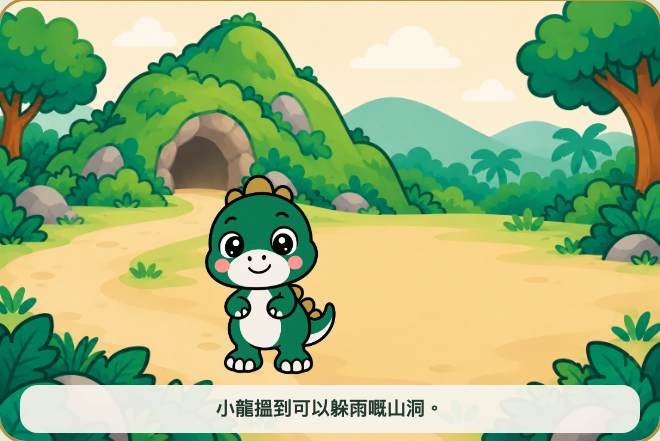
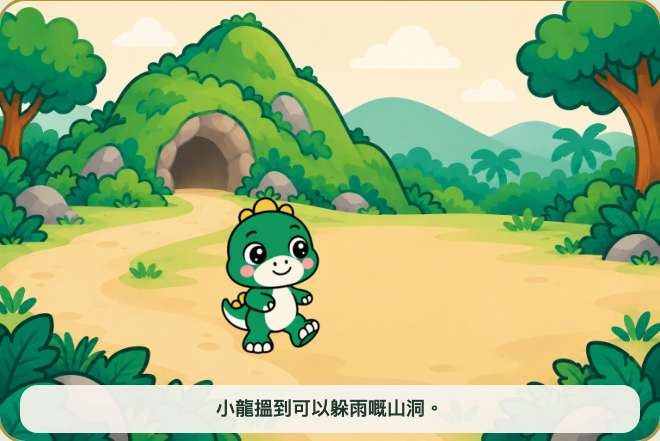
Show walking and drinking baby poses in Chinese care outcomes

Changed region(s): [[0.303, 0.3832, 0.5152, 0.8549]]

diff --git a/sw.js b/sw.js
@@ -1,7 +1,7 @@
 // Generated precache manifest. Rebuild whenever local assets change.
-const CACHE='dino-island-a01c91c67758';
+const CACHE='dino-island-c9b8a70fcbc7';
 const BASE=new URL('./',self.location.href);
-const ASSETS=["board/board.css","board/board.js","board/img/board-skin.png","board/index.html","hub/app.js","hub/audio/en/actions/freeze.wav","hub/audio/en/actions/hands.wav","hub/audio/en/actions/jump.wav","hub/audio/en/actions/left.wav","hub/audio/en/actions/right.wav","hub/audio/en/actions/sit.wav","hub/audio/en/actions/stand.wav","hub/audio/yue/actions/freeze.wav","hub/audio/yue/actions/hands.wav","hub/audio/yue/actions/left.wav","hub/audio/yue/actions/right.wav","hub/audio/yue/actions/sit.wav","hub/audio/yue/characters/fire.wav","hub/audio/yue/characters/moon.wav","hub/audio/yue/characters/mountain.wav","hub/audio/yue/characters/sun.wav","hub/audio/yue/characters/water.wav","hub/audio/yue/characters/wood.wav","hub/audio/yue/common/complete.wav","hub/audio/yue/common/hint.wav","hub/audio/yue/common/retry.wav","hub/audio/yue/common/welcome.wav","hub/audio/yue/intro/art.wav","hub/audio/yue/intro/chinese.wav","hub/audio/yue/intro/computing.wav","hub/audio/yue/intro/english.wav","hub/audio/yue/intro/general.wav","hub/audio/yue/intro/humanities.wav","hub/audio/yue/intro/mandarin.wav","hub/audio/yue/intro/math.wav","hub/audio/yue/intro/music.wav","hub/audio/yue/intro/pe.wav","hub/audio/yue/intro/science.wav","hub/audio/zh-CN/greetings/goodbye.wav","hub/audio/zh-CN/greetings/hello.wav","hub/audio/zh-CN/greetings/morning.wav","hub/audio/zh-CN/greetings/please.wav","hub/audio/zh-CN/greetings/thanks.wav","hub/audio/zh-CN/greetings/welcome.wav","hub/certificate.js","hub/games.js","hub/img/chars/dino-baby-eat.png","hub/img/chars/dino-baby-sleep.png","hub/img/chars/dino-baby.png","hub/img/chars/landmark-hatch.png","hub/img/chars/landmark-longneck.png","hub/img/chars/landmark-triceratops.png","hub/img/chars/xiaolian-clap.png","hub/img/chars/xiaolian-color.png","hub/img/chars/xiaolian-highfive.png","hub/img/chars/xiaolian-point.png","hub/img/chars/xiaolian-welcome.png","hub/img/chars/xiaolian-write.png","hub/img/chars/xiaozhi-highfive.png","hub/img/chars/xiaozhi-jump.png","hub/img/chars/xiaozhi-run.png","hub/img/chars/xiaozhi-sit.png","hub/img/chars/xiaozhi-step.png","hub/img/chars/xiaozhi-stretch.png","hub/img/chars/xiaozhi-tablet.png","hub/img/chars/xiaozhi-welcome.png","hub/img/games/art/egg-studio.png","hub/img/games/chinese/mountain.png","hub/img/games/chinese/river.png","hub/img/games/chinese/volcano.png","hub/img/games/computing/coding-garden.png","hub/img/games/computing/dino-robot.png","hub/img/games/english/dino-jump.png","hub/img/games/general/bedtime.png","hub/img/games/general/daytime.png","hub/img/games/general/dino-waking.png","hub/img/games/general/morning.png","hub/img/games/humanities/river-centre.png","hub/img/games/humanities/safe-forest.png","hub/img/games/humanities/volcano-edge.png","hub/img/games/mandarin/village.png","hub/img/games/math/feeding-garden.png","hub/img/games/math/friend-longneck.png","hub/img/games/math/friend-triceratops.png","hub/img/games/music/dino-drum.png","hub/img/games/music/music-stage.png","hub/img/games/pe/forest-arena.png","hub/img/games/pe/forest-visitor.png","hub/img/games/science/excavation.png","hub/img/map/island-path.png","hub/img/ui/cert-frame.png","hub/index.html","hub/modules/art.js","hub/modules/chinese-scenes.js","hub/modules/computing.js","hub/modules/fossil-art.js","hub/modules/general.js","hub/modules/humanities.js","hub/modules/mandarin.js","hub/modules/math.js","hub/modules/motion.js","hub/modules/music.js","hub/modules/pe-scene.js","hub/modules/science.js","hub/park-guides.js","index.html","setup/index.html","shared/certificate-link.js","shared/config.js","shared/core.js","shared/game-clock-gate.js","shared/game-state.js","shared/icons.js","shared/img/school-logo.png","shared/models/pose-landmarker-lite-v1.task","shared/network.js","shared/offline.js","shared/pose-actions.js","shared/pose-camera.js","shared/qrcode.js","shared/recorder.js","shared/sequence.js","shared/storage.js","shared/style.css","shared/vendor/mediapipe/vision-bundle.js","shared/vendor/mediapipe/wasm/vision_wasm_internal.js","shared/vendor/mediapipe/wasm/vision_wasm_internal.wasm","shared/vendor/mediapipe/wasm/vision_wasm_nosimd_internal.js","shared/vendor/mediapipe/wasm/vision_wasm_nosimd_internal.wasm","shared/voice.js","hub/","board/","setup/"].map(p=>new URL(p,BASE).href);
+const ASSETS=["board/board.css","board/board.js","board/img/board-skin.png","board/index.html","hub/app.js","hub/audio/en/actions/freeze.wav","hub/audio/en/actions/hands.wav","hub/audio/en/actions/jump.wav","hub/audio/en/actions/left.wav","hub/audio/en/actions/right.wav","hub/audio/en/actions/sit.wav","hub/audio/en/actions/stand.wav","hub/audio/yue/actions/freeze.wav","hub/audio/yue/actions/hands.wav","hub/audio/yue/actions/left.wav","hub/audio/yue/actions/right.wav","hub/audio/yue/actions/sit.wav","hub/audio/yue/characters/fire.wav","hub/audio/yue/characters/moon.wav","hub/audio/yue/characters/mountain.wav","hub/audio/yue/characters/sun.wav","hub/audio/yue/characters/water.wav","hub/audio/yue/characters/wood.wav","hub/audio/yue/common/complete.wav","hub/audio/yue/common/hint.wav","hub/audio/yue/common/retry.wav","hub/audio/yue/common/welcome.wav","hub/audio/yue/intro/art.wav","hub/audio/yue/intro/chinese.wav","hub/audio/yue/intro/computing.wav","hub/audio/yue/intro/english.wav","hub/audio/yue/intro/general.wav","hub/audio/yue/intro/humanities.wav","hub/audio/yue/intro/mandarin.wav","hub/audio/yue/intro/math.wav","hub/audio/yue/intro/music.wav","hub/audio/yue/intro/pe.wav","hub/audio/yue/intro/science.wav","hub/audio/zh-CN/greetings/goodbye.wav","hub/audio/zh-CN/greetings/hello.wav","hub/audio/zh-CN/greetings/morning.wav","hub/audio/zh-CN/greetings/please.wav","hub/audio/zh-CN/greetings/thanks.wav","hub/audio/zh-CN/greetings/welcome.wav","hub/certificate.js","hub/games.js","hub/img/chars/dino-baby-eat.png","hub/img/chars/dino-baby-sleep.png","hub/img/chars/dino-baby.png","hub/img/chars/landmark-hatch.png","hub/img/chars/landmark-longneck.png","hub/img/chars/landmark-triceratops.png","hub/img/chars/xiaolian-clap.png","hub/img/chars/xiaolian-color.png","hub/img/chars/xiaolian-highfive.png","hub/img/chars/xiaolian-point.png","hub/img/chars/xiaolian-welcome.png","hub/img/chars/xiaolian-write.png","hub/img/chars/xiaozhi-highfive.png","hub/img/chars/xiaozhi-jump.png","hub/img/chars/xiaozhi-run.png","hub/img/chars/xiaozhi-sit.png","hub/img/chars/xiaozhi-step.png","hub/img/chars/xiaozhi-stretch.png","hub/img/chars/xiaozhi-tablet.png","hub/img/chars/xiaozhi-welcome.png","hub/img/games/art/egg-studio.png","hub/img/games/chinese/dino-drinking.png","hub/img/games/chinese/dino-walking.png","hub/img/games/chinese/mountain.png","hub/img/games/chinese/river.png","hub/img/games/chinese/volcano.png","hub/img/games/computing/coding-garden.png","hub/img/games/computing/dino-robot.png","hub/img/games/english/dino-jump.png","hub/img/games/general/bedtime.png","hub/img/games/general/daytime.png","hub/img/games/general/dino-waking.png","hub/img/games/general/morning.png","hub/img/games/humanities/river-centre.png","hub/img/games/humanities/safe-forest.png","hub/img/games/humanities/volcano-edge.png","hub/img/games/mandarin/village.png","hub/img/games/math/feeding-garden.png","hub/img/games/math/friend-longneck.png","hub/img/games/math/friend-triceratops.png","hub/img/games/music/dino-drum.png","hub/img/games/music/music-stage.png","hub/img/games/pe/forest-arena.png","hub/img/games/pe/forest-visitor.png","hub/img/games/science/excavation.png","hub/img/map/island-path.png","hub/img/ui/cert-frame.png","hub/index.html","hub/modules/art.js","hub/modules/chinese-scenes.js","hub/modules/computing.js","hub/modules/fossil-art.js","hub/modules/general.js","hub/modules/humanities.js","hub/modules/mandarin.js","hub/modules/math.js","hub/modules/motion.js","hub/modules/music.js","hub/modules/pe-scene.js","hub/modules/science.js","hub/park-guides.js","index.html","setup/index.html","shared/certificate-link.js","shared/config.js","shared/core.js","shared/game-clock-gate.js","shared/game-state.js","shared/icons.js","shared/img/school-logo.png","shared/models/pose-landmarker-lite-v1.task","shared/network.js","shared/offline.js","shared/pose-actions.js","shared/pose-camera.js","shared/qrcode.js","shared/recorder.js","shared/sequence.js","shared/storage.js","shared/style.css","shared/vendor/mediapipe/vision-bundle.js","shared/vendor/mediapipe/wasm/vision_wasm_internal.js","shared/vendor/mediapipe/wasm/vision_wasm_internal.wasm","shared/vendor/mediapipe/wasm/vision_wasm_nosimd_internal.js","shared/vendor/mediapipe/wasm/vision_wasm_nosimd_internal.wasm","shared/voice.js","hub/","board/","setup/"].map(p=>new URL(p,BASE).href);
 self.addEventListener('install',e=>e.waitUntil(caches.open(CACHE).then(c=>c.addAll(ASSETS))));
 self.addEventListener('activate',e=>e.waitUntil(Promise.all([caches.keys().then(keys=>Promise.all(keys.filter(k=>k.startsWith('dino-island-')&&k!==CACHE).map(k=>caches.delete(k)))),self.clients.claim()])));
 self.addEventListener('message',e=>{if(e.data?.type!=='CHECK_OFFLINE'||!e.ports[0])return;e.waitUntil(caches.open(CACHE).then(async c=>{const present=await Promise.all(ASSETS.map(url=>c.match(url)));e.ports[0].postMessage({type:'OFFLINE_STATUS',version:CACHE,complete:present.every(Boolean),missing:present.filter(r=>!r).length,total:ASSETS.length});}).catch(()=>e.ports[0].postMessage({type:'OFFLINE_STATUS',complete:false,missing:ASSETS.length,total:ASSETS.length})));});

diff --git a/hub/modules/chinese-scenes.js b/hub/modules/chinese-scenes.js
@@ -1,8 +1,7 @@
 import {icon} from '../../shared/icons.js';
-const waterCup='<svg class="icon" viewBox="0 0 90 90" fill="none" stroke="#203b2e" stroke-width="4" stroke-linecap="round" stroke-linejoin="round" aria-hidden="true"><path d="M64 31h9q17 0 10 20q-4 9-20 9" fill="#f6f3ec"/><path d="M16 24h50l-4 45q-23 13-42 0Z" fill="#f6f3ec"/><ellipse cx="41" cy="24" rx="25" ry="8" fill="#7fc9db"/><path d="M27 45v17" stroke="#b8923a"/></svg>';
 export const journeyScenes=[
- {file:'chinese/mountain.png',caption:'山洞可以遮風擋雨。',outcome:'小龍搵到可以躲雨嘅山洞。'},
- {file:'chinese/river.png',caption:'清水幫小龍解渴。',outcome:'留喺岸上，飲自備嘅清水。',prop:'water'},
+ {file:'chinese/mountain.png',caption:'山洞可以遮風擋雨。',outcome:'小龍搵到可以躲雨嘅山洞。',sprite:'games/chinese/dino-walking'},
+ {file:'chinese/river.png',caption:'清水幫小龍解渴。',outcome:'留喺岸上，飲自備嘅清水。',sprite:'games/chinese/dino-drinking'},
  {file:'chinese/volcano.png',caption:'火山只遠遠觀察，唔靠近。',outcome:'小龍留喺安全地方，遠遠觀察火山。'},
  {file:'humanities/safe-forest.png',caption:'樹木為小龍提供樹蔭。',outcome:'小龍喺樹蔭下休息，涼快返。'},
  {file:'general/daytime.png',caption:'日頭出嚟，記得遮陽。',outcome:'日頭出嚟，準備好帽先再出發。',prop:'hat'},
@@ -11,5 +10,5 @@ export const journeyScenes=[
 export function chineseScene(index,complete=false){
  const s=journeyScenes[index];
  if(!complete)return `<div class="chinese-scene scene-${index}" aria-label="${s.caption}"><img class="journey-thumbnail" src="img/games/${s.file}" alt=""><span>${s.caption}</span></div>`;
- return `<div class="chinese-journey scene-${index} scene-complete" aria-label="${s.outcome}"><img class="journey-background" src="img/games/${s.file}" alt=""><div class="journey-dino"><img class="character" src="img/chars/${s.pose||'dino-baby'}.png" alt="${s.outcome}">${s.prop?`<span class="journey-prop prop-${s.prop}" aria-hidden="true">${s.prop==='water'?waterCup:icon(s.prop)}</span>`:''}</div><p class="journey-caption">${s.outcome}</p></div>`;
+ return `<div class="chinese-journey scene-${index} scene-complete" aria-label="${s.outcome}"><img class="journey-background" src="img/games/${s.file}" alt=""><div class="journey-dino"><img class="character" src="img/${s.sprite||`chars/${s.pose||'dino-baby'}`}.png" alt="${s.outcome}">${s.prop?`<span class="journey-prop prop-${s.prop}" aria-hidden="true">${icon(s.prop)}</span>`:''}</div><p class="journey-caption">${s.outcome}</p></div>`;
 }

diff --git a/shared/style.css b/shared/style.css
@@ -74,7 +74,6 @@
 .journey-caption{position:absolute;bottom:8px;left:3%;right:3%;padding:8px 12px;text-align:center;border-radius:18px;background:#f6f3ecef;color:#203b2e;font-size:19px;font-weight:700}
 .journey-prop{position:absolute;display:block;pointer-events:none}
 .journey-prop .icon{width:100%;height:100%}
-.journey-prop.prop-water{width:40%;height:35%;left:35%;top:39%}
 .journey-prop.prop-hat{width:82%;height:38%;left:2%;top:-4%}
 @keyframes journey-arrive{from{transform:translateX(35%);opacity:.5}to{transform:none;opacity:1}}
 @keyframes journey-rest{from{opacity:.5;transform:translateY(8px)}to{opacity:1;transform:none}}

diff --git a/scripts/prepare-chinese-sprites.py b/scripts/prepare-chinese-sprites.py
@@ -1,0 +1,24 @@
+"""Remove the approved magenta production matte; preserve original character art."""
+from pathlib import Path
+import numpy as np
+from PIL import Image, ImageFilter
+
+ROOT = Path(__file__).resolve().parents[1]
+for name in ('walking', 'drinking'):
+    source = Image.open(ROOT / f'design/game-assets/drafts/chinese-dino-{name}-matte.png').convert('RGB')
+    pixels = np.asarray(source).astype(int)
+    matte = (pixels[:, :, 0] - pixels[:, :, 1] > 55) & (pixels[:, :, 2] - pixels[:, :, 1] > 55)
+    alpha = Image.fromarray(np.where(matte, 0, 255).astype('uint8'))
+    alpha = alpha.filter(ImageFilter.MinFilter(3)).filter(ImageFilter.GaussianBlur(.4))
+    sprite = source.convert('RGBA')
+    sprite.putalpha(alpha)
+    sprite = sprite.crop(alpha.getbbox())
+    sprite.thumbnail((940, 940), Image.Resampling.LANCZOS)
+    output = Image.new('RGBA', (1024, 1024))
+    output.alpha_composite(sprite, ((1024-sprite.width)//2, (1024-sprite.height)//2))
+    target = ROOT / f'hub/img/games/chinese/dino-{name}.png'
+    output.save(target)
+    review = Image.new('RGBA', output.size, '#F6F3EC')
+    review.alpha_composite(output)
+    review.convert('RGB').save(ROOT / f'design/game-assets/drafts/chinese-dino-{name}-cream.png')
+    print(target)

diff --git a/docs/ASSET-REMAINING.md b/docs/ASSET-REMAINING.md
@@ -1,6 +1,6 @@
 # 尚欠遊戲素材
 
-來源：`Dino Island｜11 科恐龍遊戲 Game Module Planning.md`。已按 `game-update-v2` 的 `hub/modules/` 核對。以下 23 項檔案均不存在，manifest 仍保留未完成狀態。
+來源：`Dino Island｜11 科恐龍遊戲 Game Module Planning.md`。已按 `game-update-v2` 的 `hub/modules/` 核對。以下 21 項檔案均不存在，manifest 仍保留未完成狀態。
 
 起床小龍最初造型不一致的圖已撤下。2026-09-10 用戶批准程式去背修邊後，改用參考原定角色的新動作稿，處理成 1024×1024 真透明 PNG，已核對奶油底合成並接入常識站。此批准同樣適用後續已核對造型的角色去背；下表的「待批准」屬早期記錄，現可進行處理。
 
@@ -8,8 +8,6 @@
 |---|---|---|---|---|
 | art | `games/art/dino-hatching.png` | `chars/dino-baby.png` | 小龍孵化 | 製作真透明角色圖 |
 | art | `games/art/xiaozhi-surprised.png` | `chars/xiaozhi-welcome.png` | 小志驚訝 | 製作真透明角色圖 |
-| chinese | `games/chinese/dino-walking.png` | `chars/dino-baby.png` | 小龍行路 | 製作真透明角色圖 |
-| chinese | `games/chinese/dino-drinking.png` | `chars/dino-baby.png` | 小龍飲水 | 製作真透明角色圖 |
 | english | `games/english/dino-squat.png` | `chars/dino-baby.png` | 蹲 | 製作真透明角色圖 |
 | english | `games/english/dino-hands-up.png` | `chars/dino-baby.png` | 舉手 | 製作真透明角色圖 |
 | english | `games/english/dino-left.png` | `chars/dino-baby.png` | 向左 | 製作真透明角色圖 |
